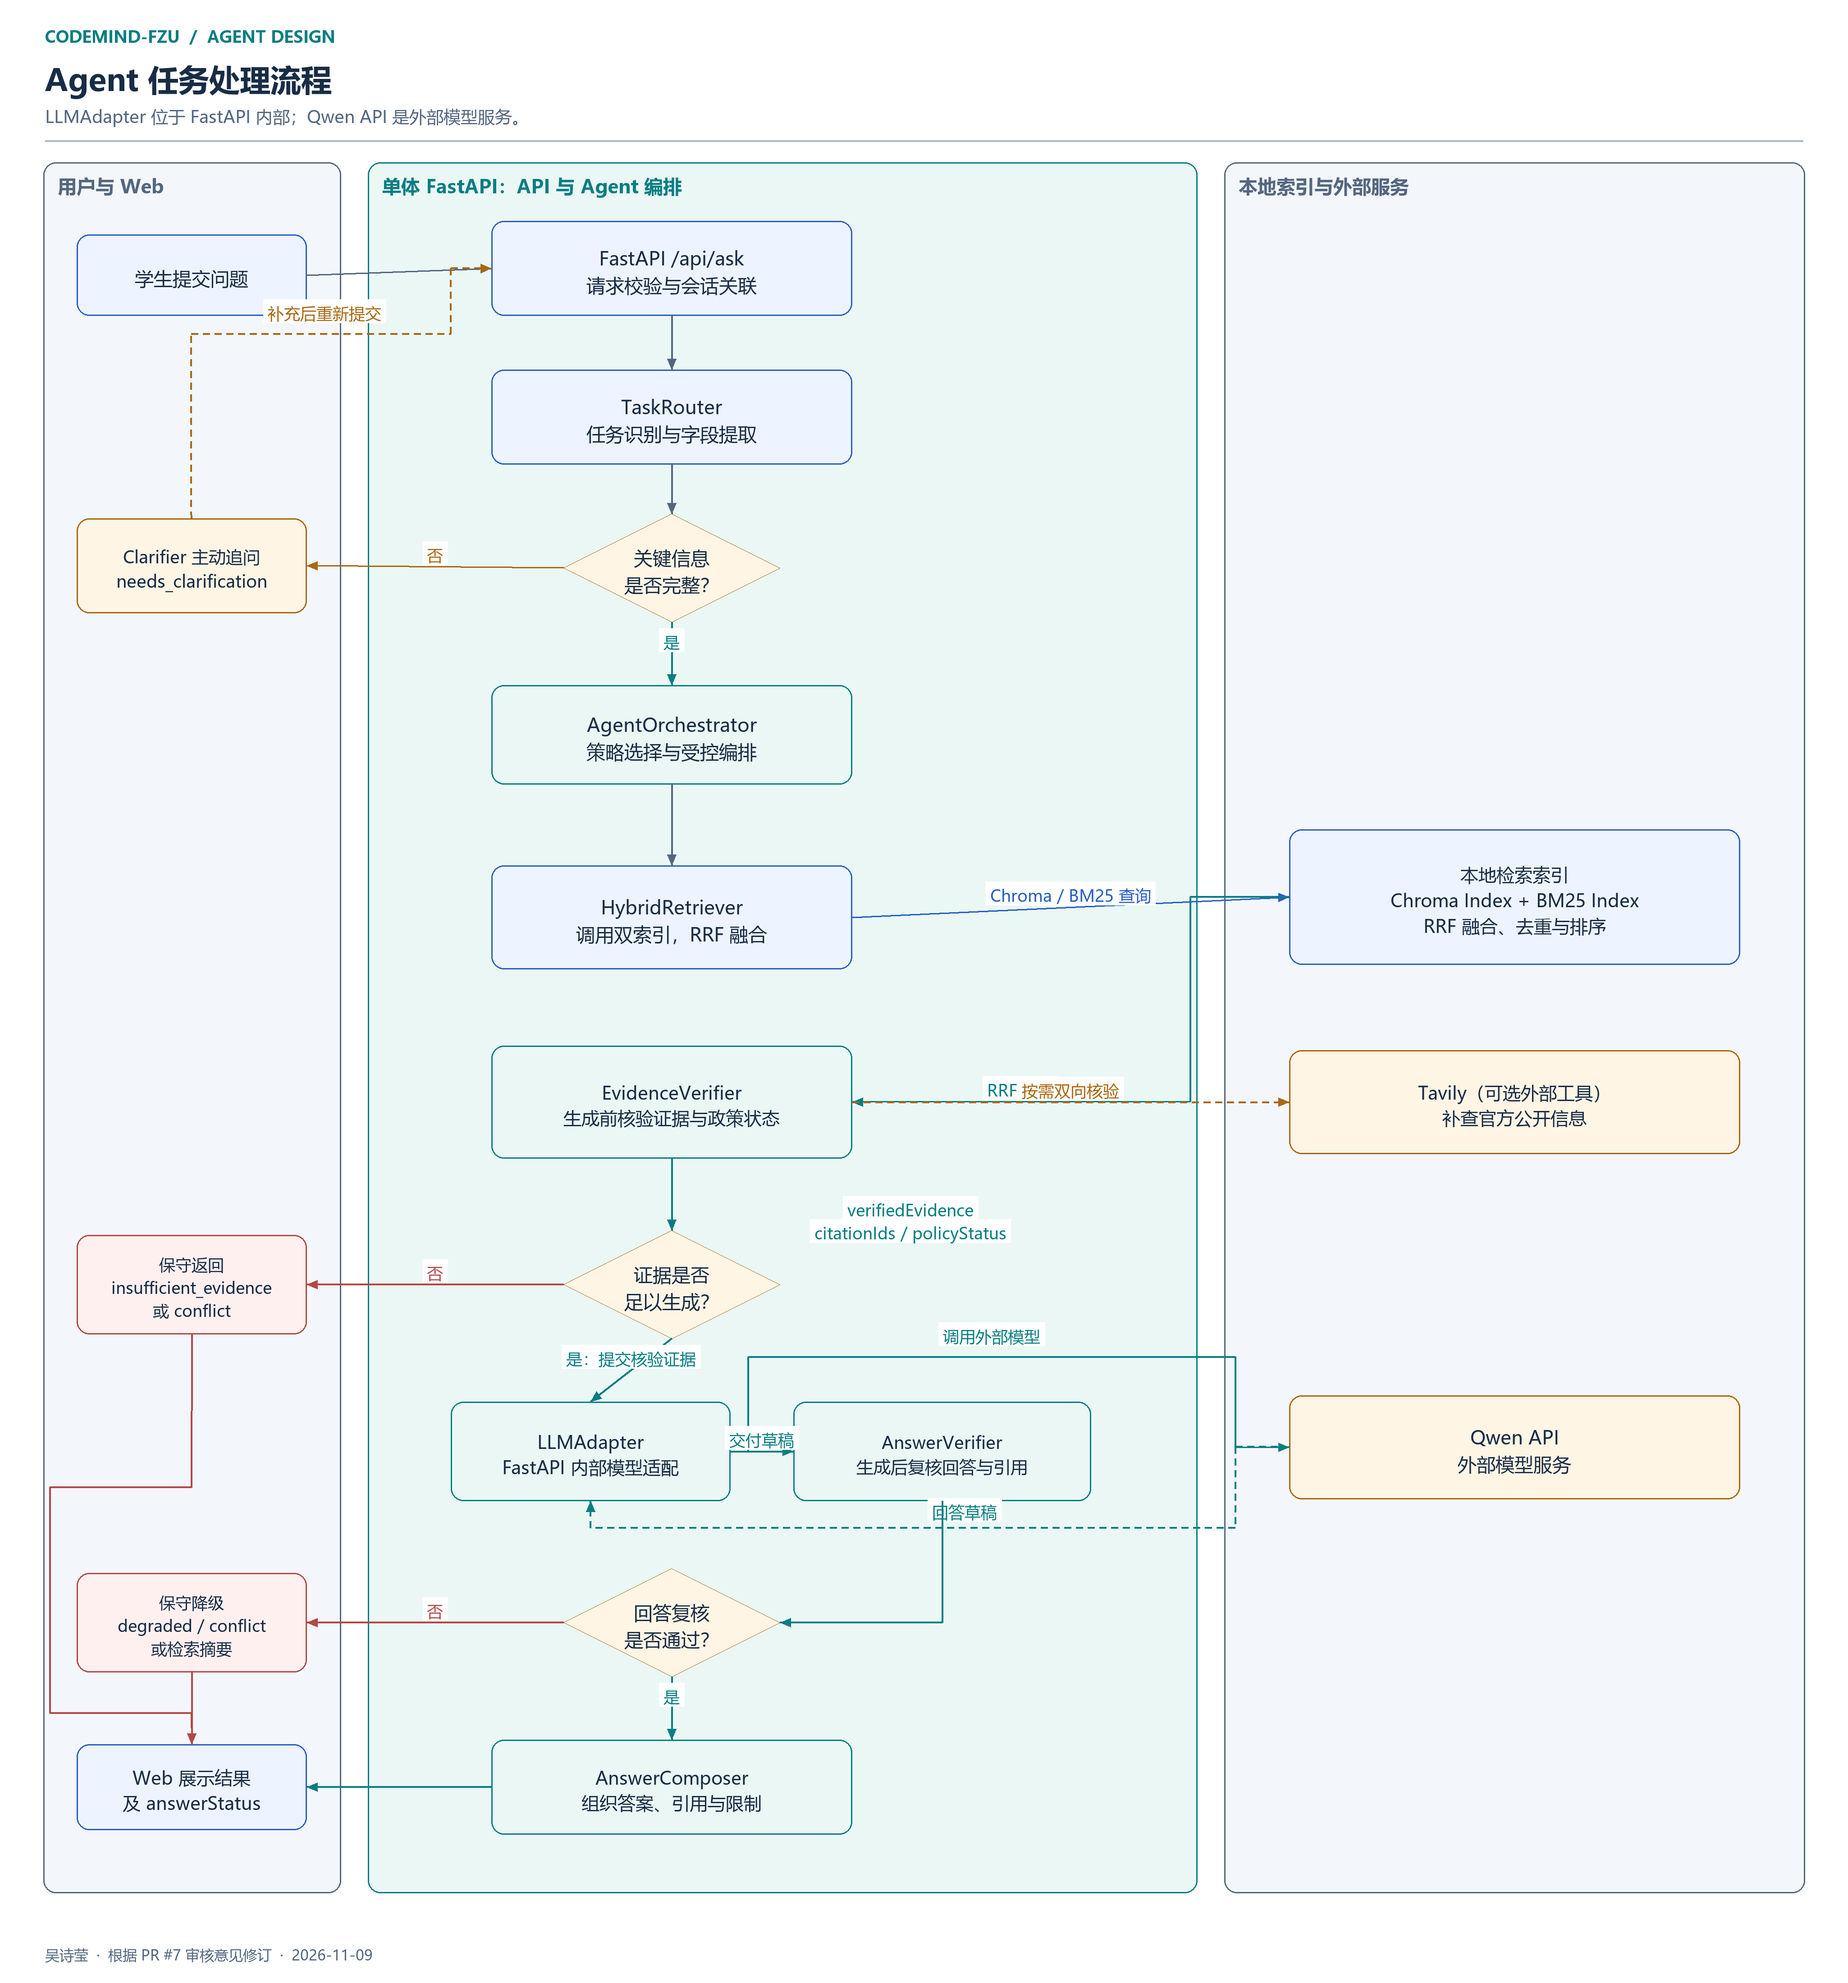
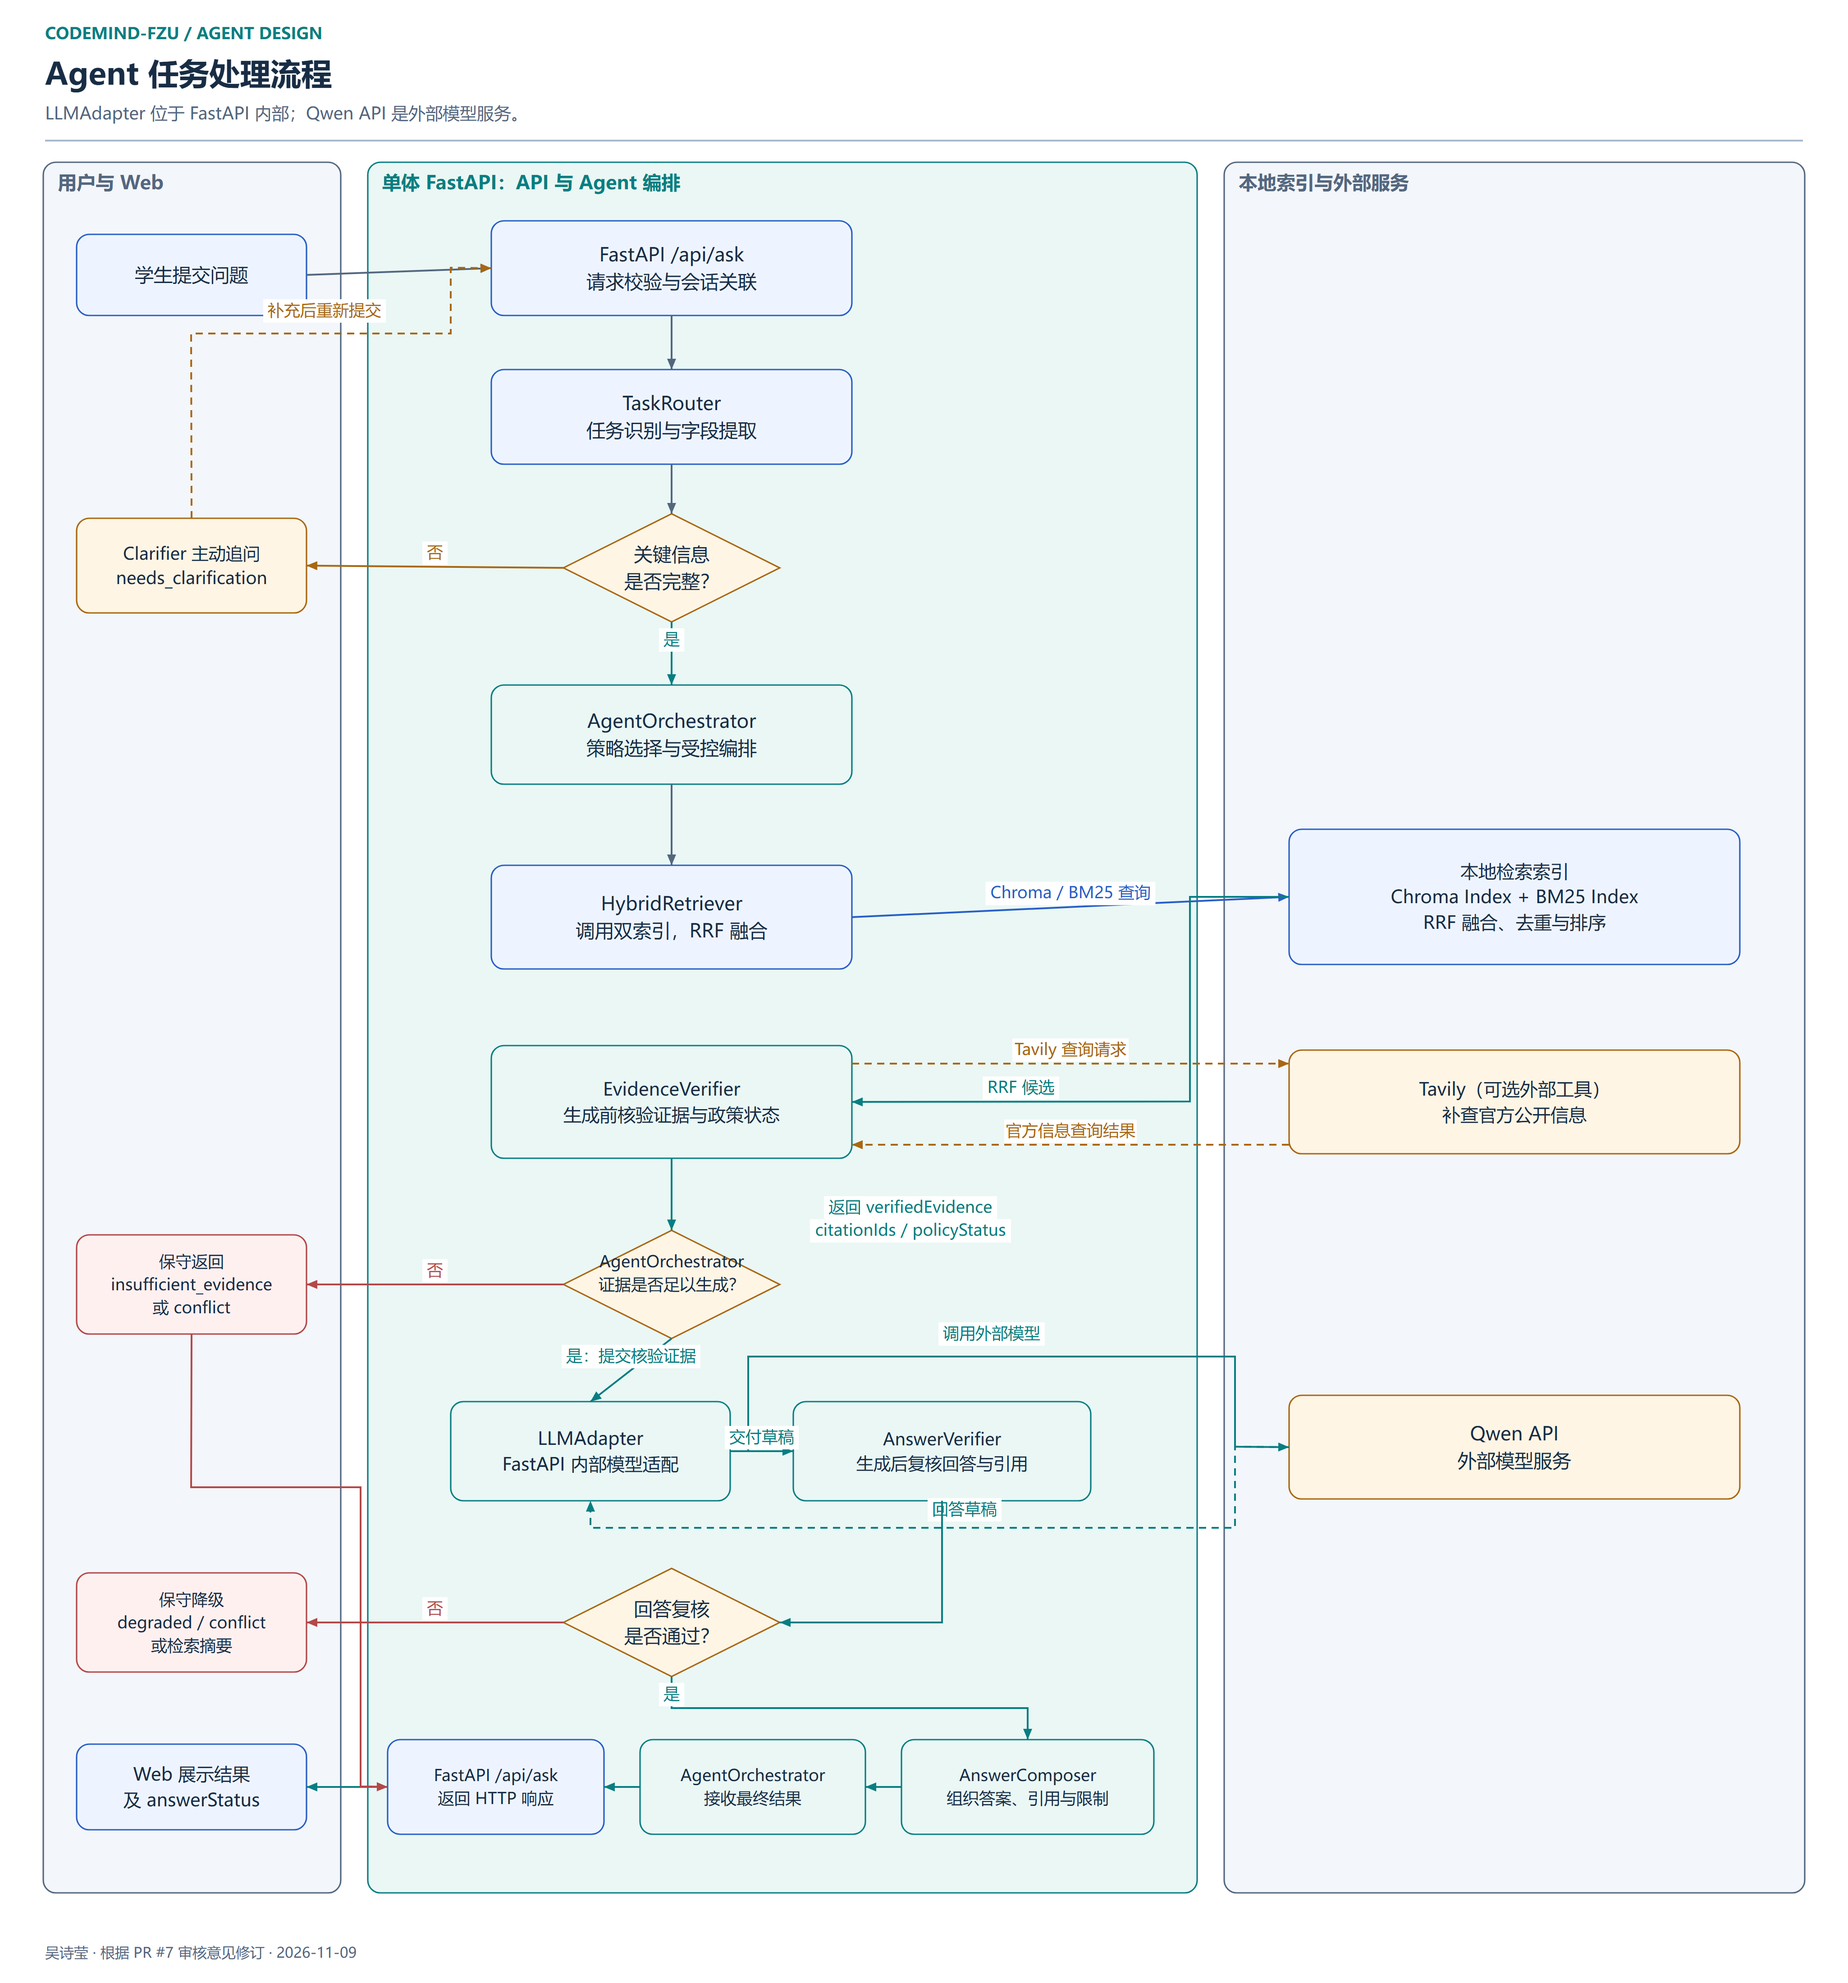
docs: align Agent diagram response paths

diff --git a/docs/assignment-02/system-design/diagrams/agent-flow/成果索引_吴诗莹_v1.md b/docs/assignment-02/system-design/diagrams/agent-flow/成果索引_吴诗莹_v1.md
@@ -18,3 +18,5 @@
 v1.1 根据 PR #7 审核意见进一步明确：`LLMAdapter` 位于 FastAPI 内部、Qwen API 是外部模型服务；UML 时序图分别展示 Chroma 与 BM25 两路并行召回，并在两路返回后执行 RRF 融合；同时增加学生参与者左侧画布边距。
 
 后续审核修订明确最终返回链为 `AnswerComposer → AgentOrchestrator → FastAPI /api/ask → Web 前端`，并将 `AnswerVerifier → AnswerComposer` 固定为单向调用。
+
+v1.2 根据最新复核意见，将 `EvidenceVerifier → AgentOrchestrator` 的核验结果返回、`AgentOrchestrator` 的生成决策、`Tavily → EvidenceVerifier` 的查询结果返回，以及 `Ask API → Web 前端` 的 HTTP 响应全部改为独立有向边；Draw.io、SVG 与 PNG 已同步。
